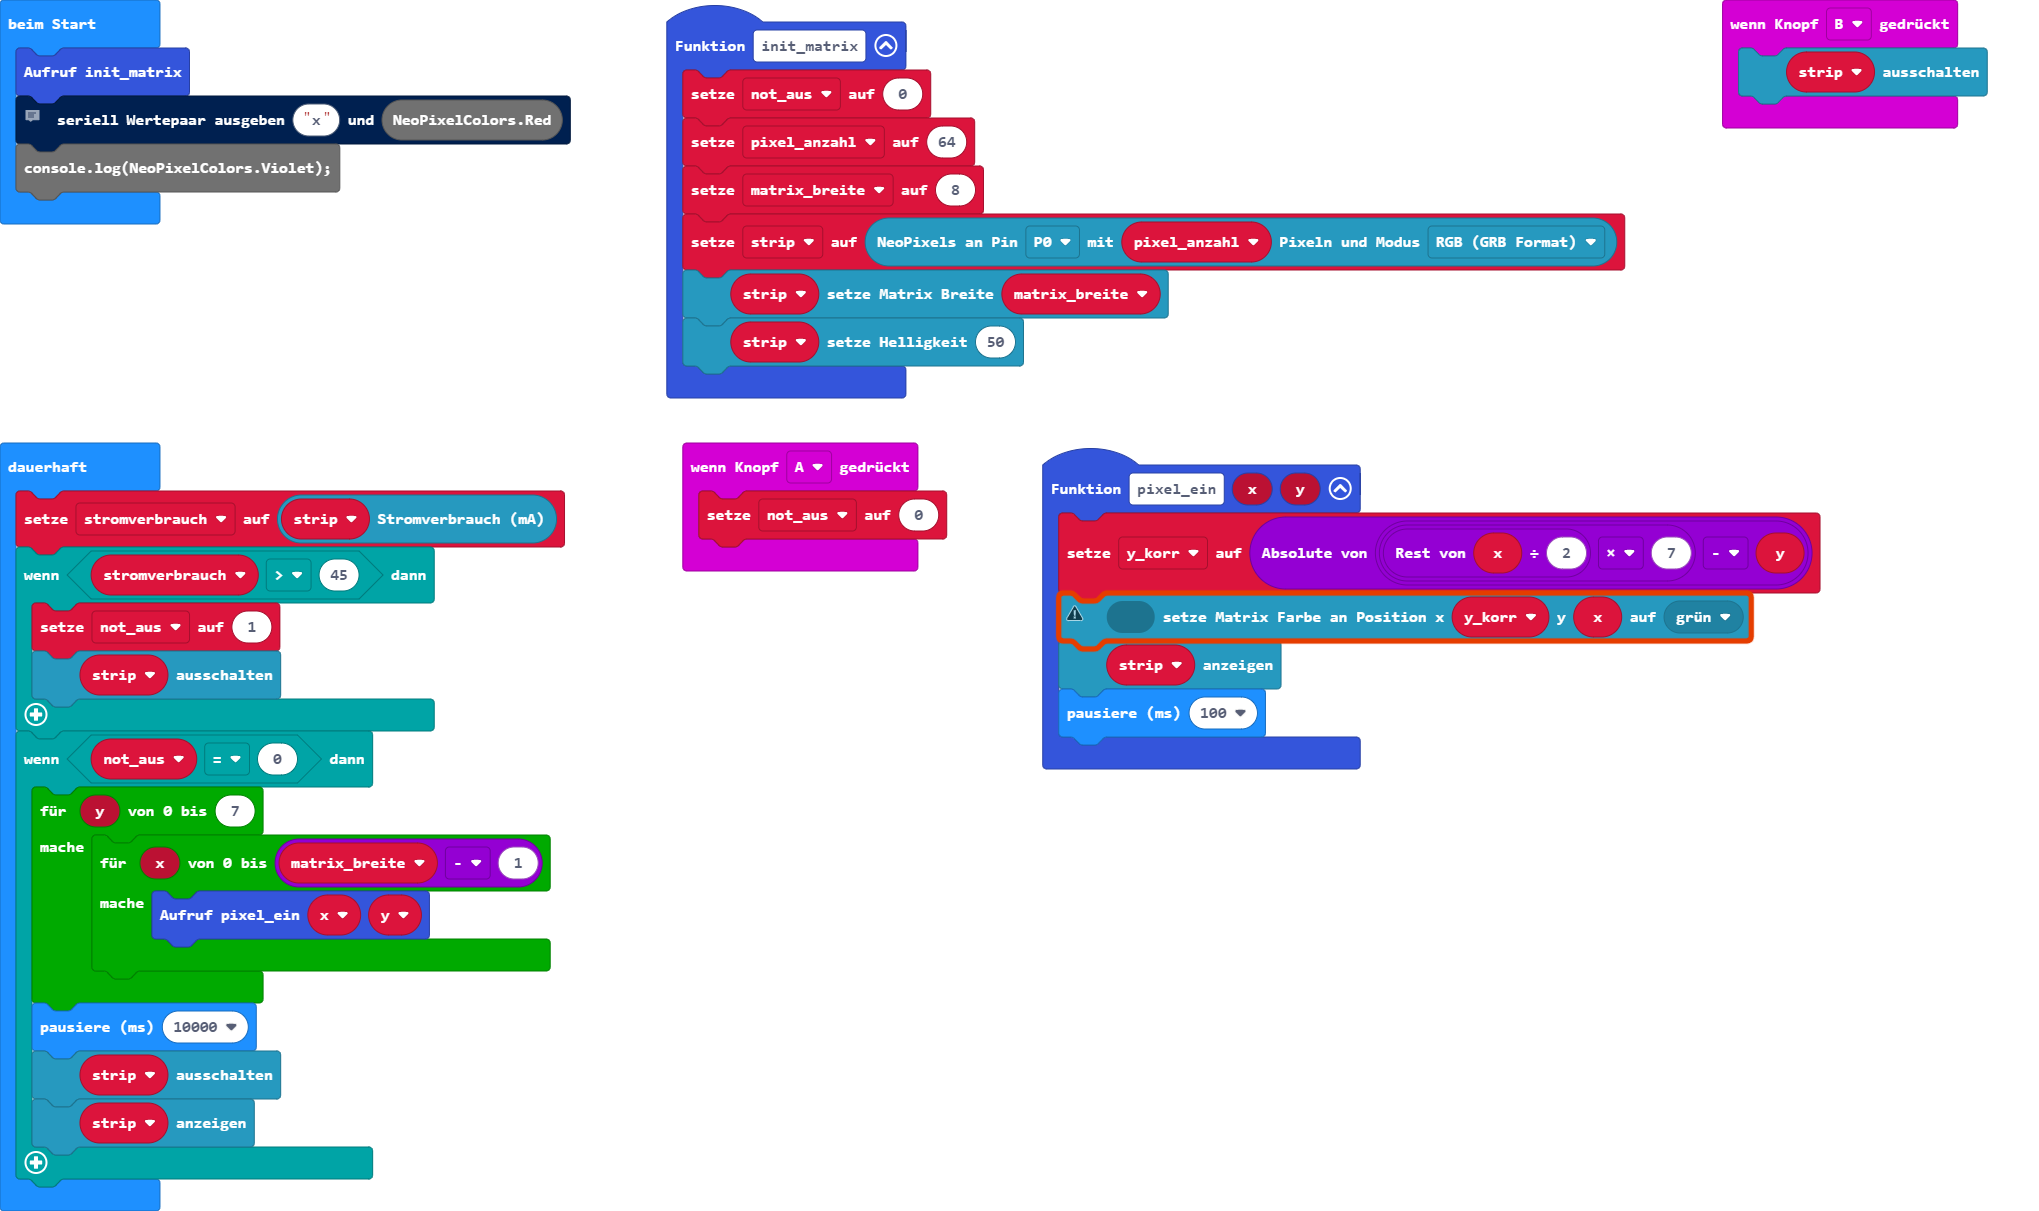
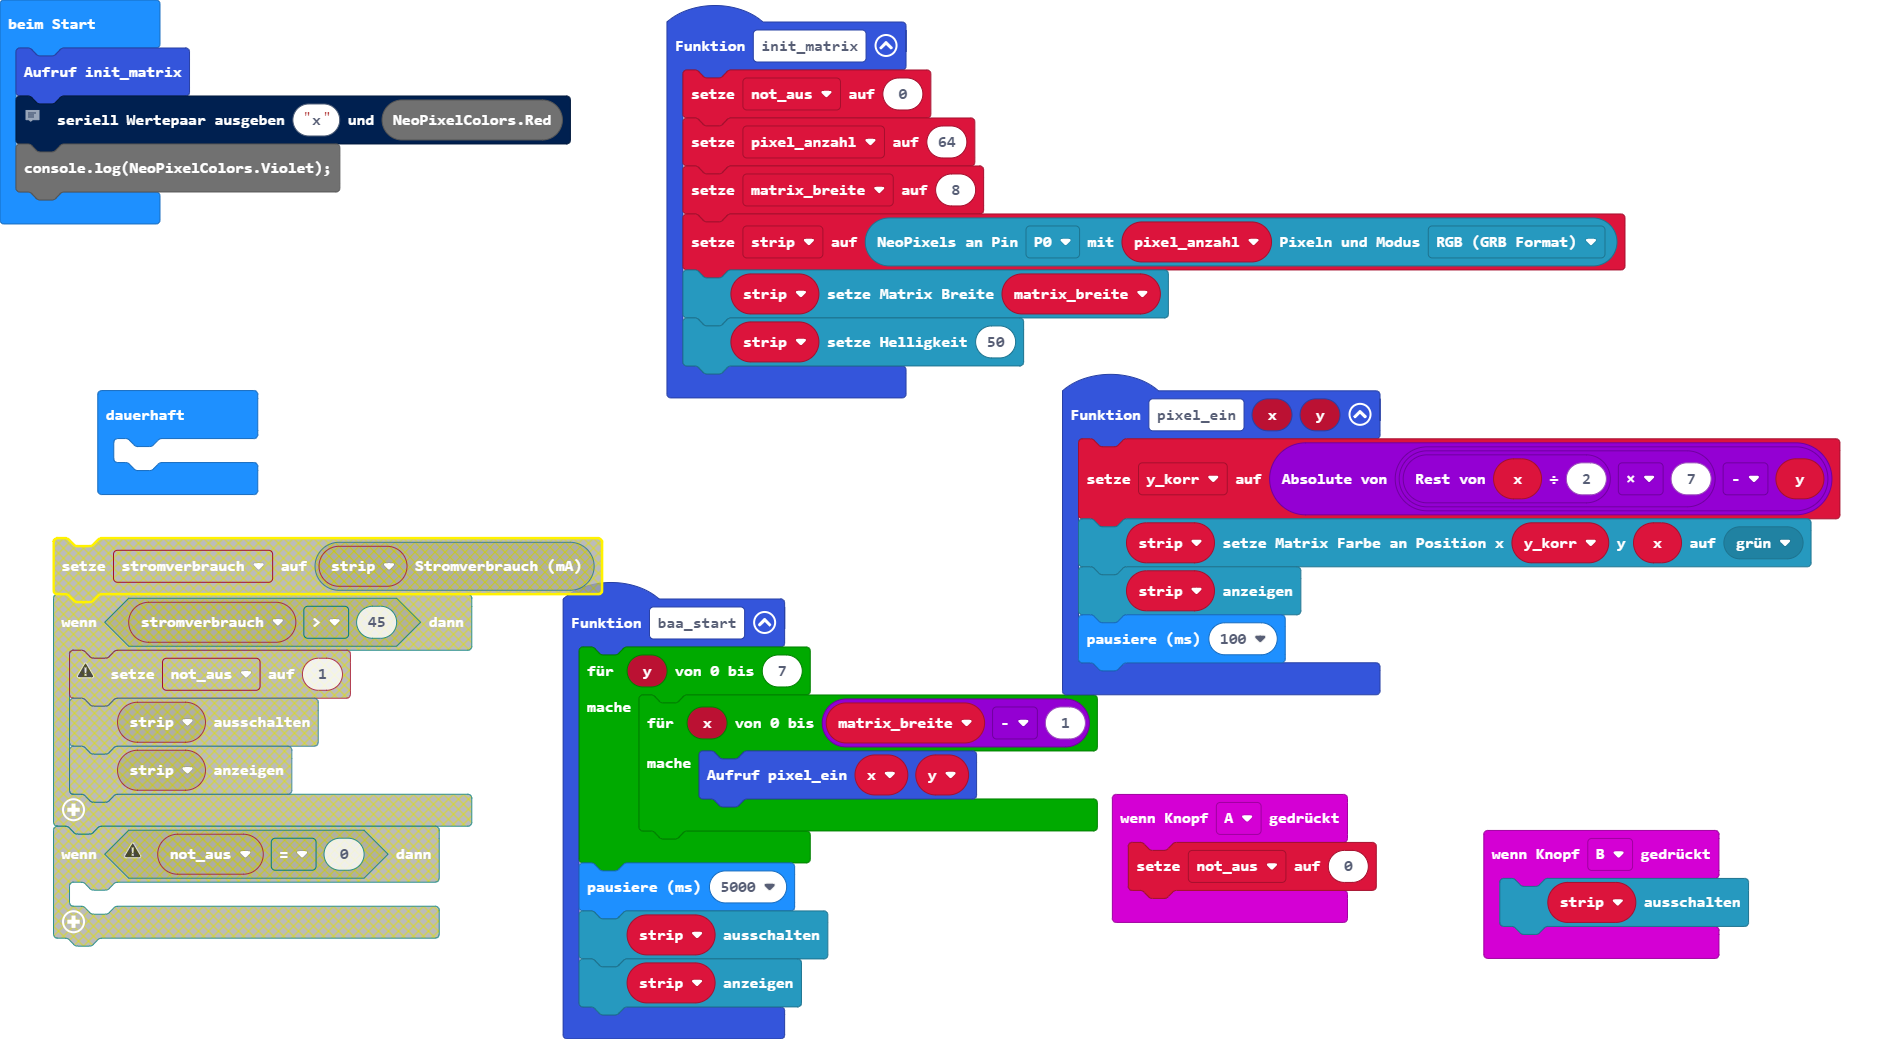
Aktualisiere pxt.json, main.blocks, main.ts

diff --git a/main.ts b/main.ts
@@ -6,6 +6,16 @@ function init_matrix () {
     strip.setMatrixWidth(matrix_breite)
     strip.setBrightness(50)
 }
+function baa_start () {
+    for (let y = 0; y <= 7; y++) {
+        for (let x = 0; x <= matrix_breite - 1; x++) {
+            pixel_ein(x, y)
+        }
+    }
+    basic.pause(5000)
+    strip.clear()
+    strip.show()
+}
 input.onButtonPressed(Button.A, function () {
     not_aus = 0
 })
@@ -18,7 +28,6 @@ function pixel_ein (x: number, y: number) {
 input.onButtonPressed(Button.B, function () {
     strip.clear()
 })
-let stromverbrauch = 0
 let y_korr = 0
 let strip: neopixel.Strip = null
 let matrix_breite = 0
@@ -29,20 +38,5 @@ init_matrix()
 serial.writeValue("x", NeoPixelColors.Red)
 console.log(NeoPixelColors.Violet);
 basic.forever(function () {
-    stromverbrauch = strip.power()
-    if (stromverbrauch > 45) {
-        not_aus = 1
-        strip.clear()
-        strip.show()
-    }
-    if (not_aus == 0) {
-        for (let y = 0; y <= 7; y++) {
-            for (let x = 0; x <= matrix_breite - 1; x++) {
-                pixel_ein(x, y)
-            }
-        }
-        basic.pause(10000)
-        strip.clear()
-        strip.show()
-    }
+	
 })
